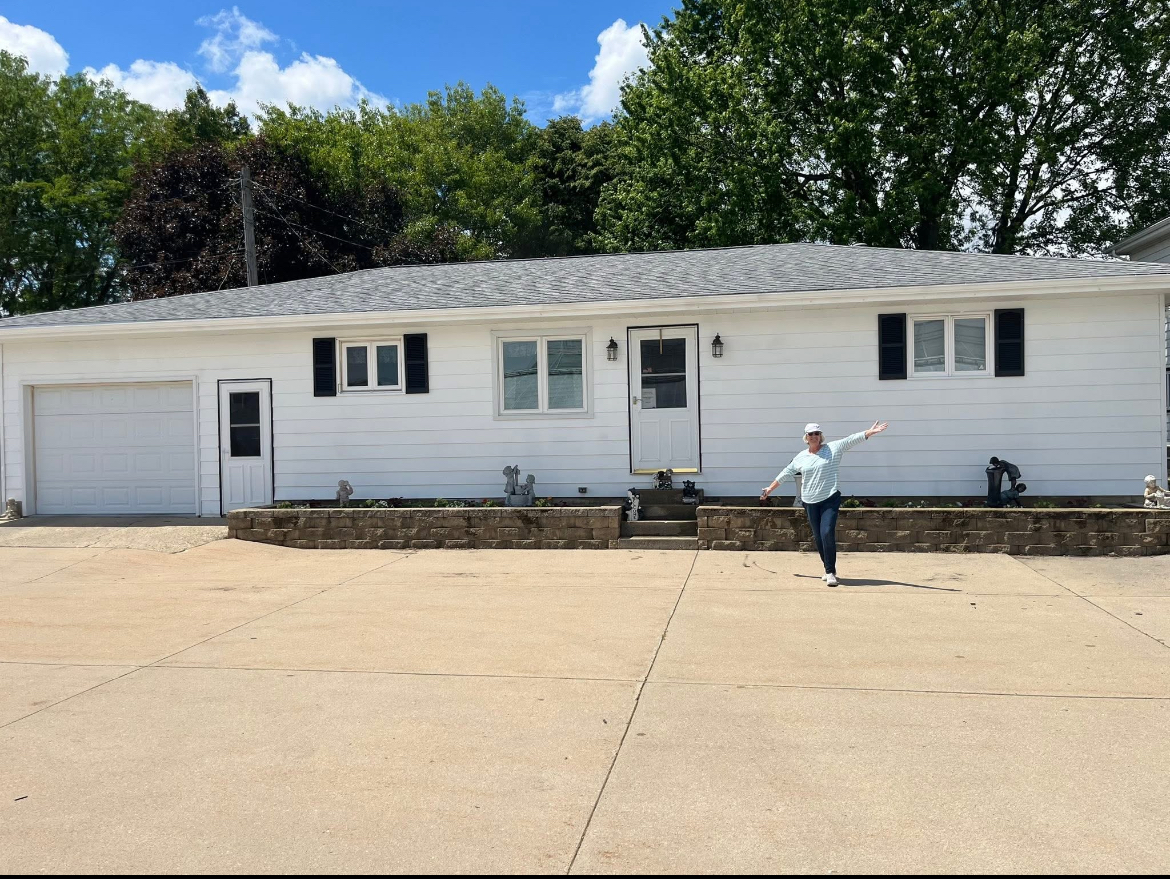
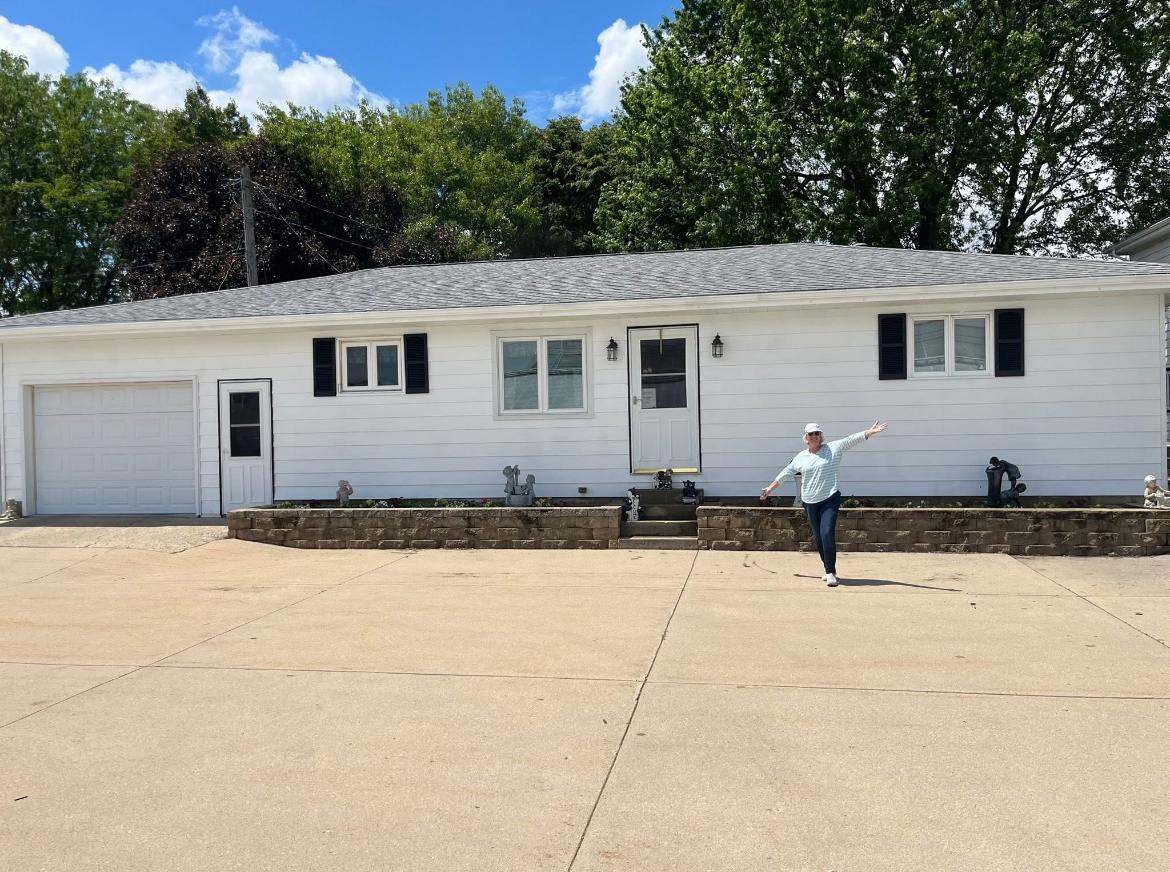
Changes

diff --git a/src/pages/Portfolio.tsx b/src/pages/Portfolio.tsx
@@ -17,7 +17,7 @@ const projects = [
     beforeImage: whiteHouseBefore,
     afterImage: whiteHouseAfter,
     services: ["Exterior Painting", "Surface Prep", "Trim Work"],
-    afterImageClass: "object-top"
+    afterImageClass: "object-center"
   },
   {
     title: "Classic Blue Colonial",
